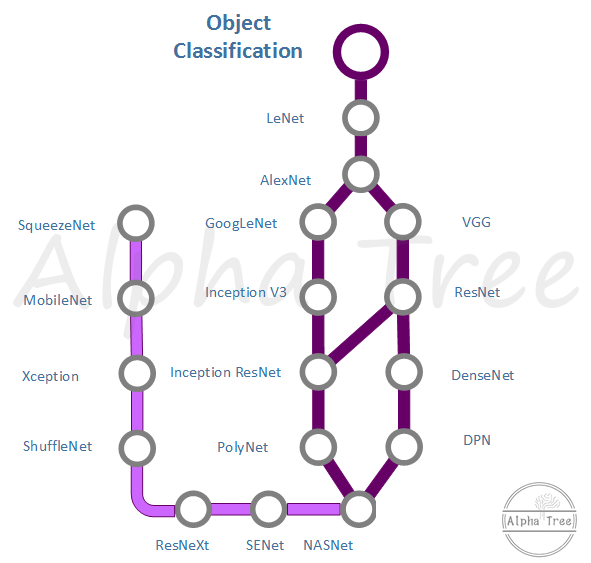
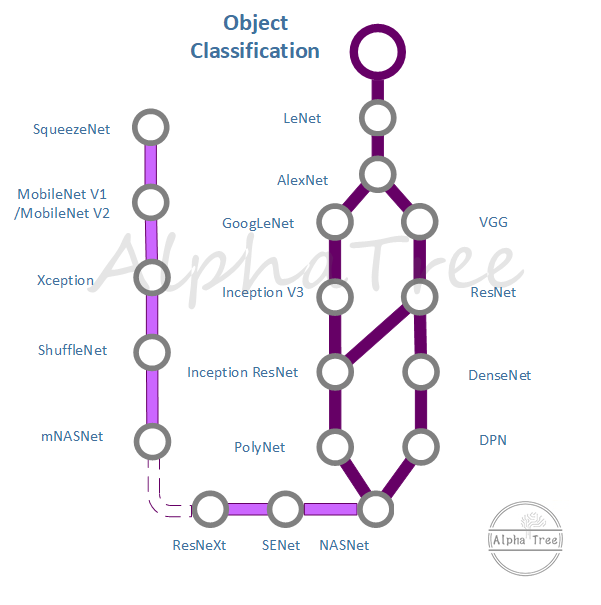
map

diff --git a/README.md b/README.md
@@ -11,7 +11,9 @@
 
 2018/06/15 完成 MobileNet 与 MobileNet V2.
 
-2018/07/04 完成FaceNet系列
+2018/07/04 完成FaceNet系列，修正地图上facenet loss部分，将二维距离（center loss） 到 球面角度距离SphereFace之后的发展 区分开
+
+2018/08/10 图上加入mNasNet ，人脸部分加入 mobilefacenet mobileID
 
 其他：
 Face ： mtcnn 
@@ -87,9 +89,11 @@ PS： caffe 模型可视化网址 http://ethereon.github.io/netscope/#/editor
 
 之后网络结构设计发展主要有两条主线，一条是Inception系列（即上面说的复杂度），从GoogLeNet 到Inception V2 V3 V4，Inception ResNet。 Inception module模块在不断变化，一条是VGG系列（即深度），用简单的结构，尽可能的使得网络变得更深。从VGG 发展到ResNet ，再到DenseNet ，DPN等。 
 
-最终Google Brain用500块GPU训练出了比人类设计的网络结构更优的网络NASNet。
+最终Google Brain用500块GPU训练出了比人类设计的网络结构更优的网络NASNet,最近训出了mNasNet。
 
-此外，应用方面更注重的是，如何将模型设计得更小，这中间就涉及到很多卷积核的变换。这条路线则包括 SqueezeNet，MobileNet V1 V2 Xception shuffleNet等。ResNet的变种ResNeXt 和SENet 都是从小模型的设计思路发展而来。
+此外，应用方面更注重的是，如何将模型设计得更小，这中间就涉及到很多卷积核的变换。这条路线则包括 SqueezeNet，MobileNet V1 V2 Xception shuffleNet等。
+
+ResNet的变种ResNeXt 和SENet 都是从小模型的设计思路发展而来。
 
 
 ![allmodel](https://github.com/weslynn/graphic-deep-neural-network/blob/master/pic/allmodel.png)
@@ -269,7 +273,6 @@ github链接：
 
 
 
-
 ### DPN[详解 detail](https://github.com/weslynn/graphic-deep-neural-network/blob/master/object%20classification%20%E7%89%A9%E4%BD%93%E5%88%86%E7%B1%BB/DPN.md)  颜水成
 之前我们已经了解了ResNet 和 DenseNet，ResNet使用的是相加(element-wise adding),DenseNet则使用的是拼接(concatenate)。
 
@@ -305,6 +308,14 @@ https://raw.githubusercontent.com/CUHK-MMLAB/polynet/master/polynet.png
 
   [12] Xingcheng Zhang, Zhizhong Li, ChenChange Loy, Dahua Lin，PolyNet: A Pursuit of Structural Diversity in Very Deep Networks.2017 [pdf](https://arxiv.org/pdf/1611.05725v2.pdf)
 
+
+### SENet
+
+  [13] Squeeze-and-Excitation Networks  [pdf](https://arxiv.org/pdf/1709.01507.pdf)
+
+  caffe:https://github.com/hujie-frank/SENet
+
+
 ### NASNet Google
 
 这是谷歌用AutoML(Auto Machine Learning)在500块GPU上自行堆砌convolution cell（有两种cell
@@ -314,13 +325,15 @@ https://raw.githubusercontent.com/CUHK-MMLAB/polynet/master/polynet.png
 <img src="https://github.com/weslynn/graphic-deep-neural-network/blob/master/pic/NasNet_cell.jpeg">
 
 
-  [13]Learning Transferable Architectures for Scalable Image Recognition[pdf](https://arxiv.org/pdf/1707.07012.pdf)
+  [14]Learning Transferable Architectures for Scalable Image Recognition[pdf](https://arxiv.org/pdf/1707.07012.pdf)
 
 
 github链接：
   https://github.com/tensorflow/models/blob/master/research/slim/nets/nasnet/nasnet.py
 
+mNasNet
 
+  [15]MnasNet: Platform-Aware Neural Architecture Search for Mobile[pdf](https://arxiv.org/pdf/1807.11626.pdf)
 
 -----------------------------------------------------------------------------------------------------------
 ## 轻量级模型 & 剪枝
@@ -329,6 +342,10 @@ github链接：
 于是从应用角度发展了另外一条支线，着重在于轻量化模型的设计与发展。它的主要思想在于从卷积层的设计来构建更高效的网络计算方式，从而使网络参数减少的同时，不损失网络性能。
 
 除了模型的设计，还有Deep Compression ，剪枝等多种方法将模型小型化。
+
+
+SqueezeNet使用bottleneck方法设计一个非常小的网络，使用不到1/50的参数（125w --- 1.25million）在ImageNet上实现AlexNet级别的准确度。 MobileNetV1使用深度可分离卷积来构建轻量级深度神经网络，其中MobileNet-160（0.5x），和SqueezeNet大小差不多，但是在ImageNet上的精度提高4％。 ShuffleNet利用pointwise group卷积和channel shuffle来减少计算成本并实现比MobileNetV1更高的准确率。 MobileNetV2基于inverted residual structure with linear bottleneck，改善了移动模型在多个任务和基准测试中的最新性能。mNASNet是和NASNet一样强化学习的构造结果，准确性略优于MobileNetV2,在移动设备上具有比MobileNetV1，ShuffleNet和MobileNetV2更复杂的结构和更多的实际推理时间。(总结出自MobileFaceNets) 
+
 
 |网络名称|最早公开日期|发表情况|作者团队|
 |:---:|:---:|:---:|:---:|
@@ -588,9 +605,12 @@ CMU-CS-16-118, CMU School of Computer Science, Tech. Rep., 2016.
 
 https://github.com/cmusatyalab/openface/
 
+--------------------------------------
 
+轻量级人脸识别模型
 
-
+这个研究得比较少，主要是分两个方面，一种是设计一个小型网络，从头开始训。这种包括LmobileNetE（112M），lightCNN (A light cnn for deep face representation with noisy labels. arXiv preprint)， ShiftFaceNet（性能能有点差 LFW 96%）,最新的MobileFaceNet，用类似MobileNet V2的结构，加上ArcFace的loss。
+一种是从大模型进行knowledge distillation 知识蒸馏得到小模型。包括从DeepID2 进行teacher-student训练得到MobileID，从FaceNet预训练模型继续训MobileNetV1等。
 
 ## 3d face
 
